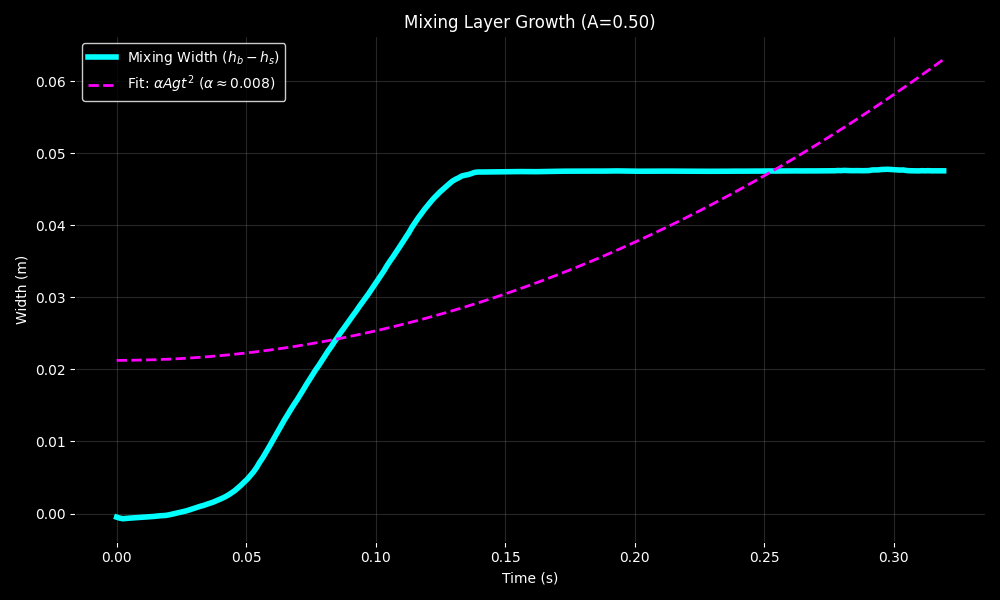
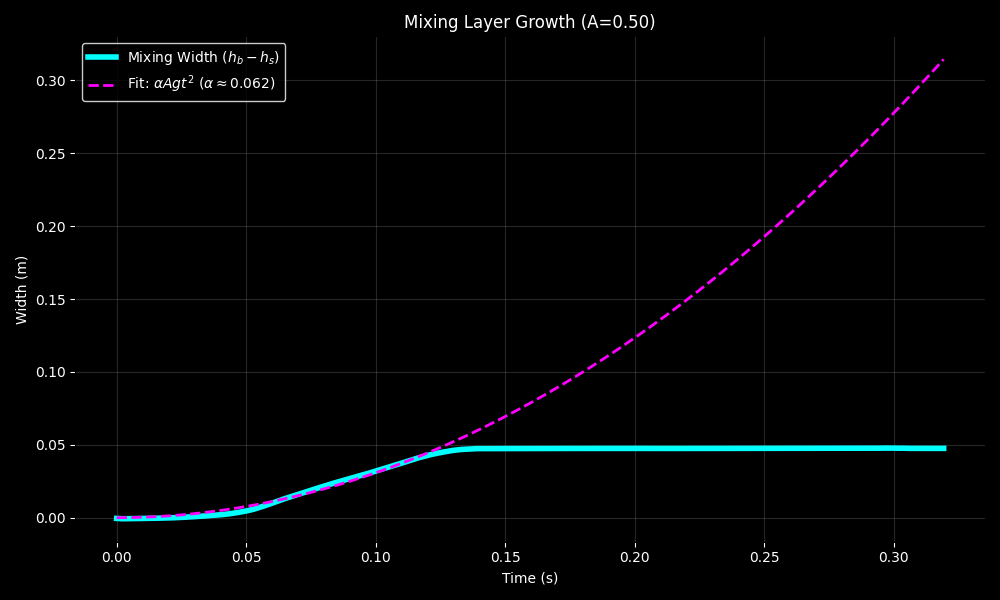
Fix: Pure quadratic fit for mixing growth (no intercept)

diff --git a/src/analyze_mixing.py b/src/analyze_mixing.py
@@ -71,22 +71,25 @@ def main():
     widths = np.array(widths)
     
     # 2. Fit Curve (W ~ C * t^2)
-    # Filter data to only include growth phase (before hitting boundaries at 0.05m)
-    threshold = 0.048
-    growth_mask = widths < threshold
+    # Theoretically W = alpha * A * g * t^2. No intercept.
+    # We fit only the active growth phase: between initial jitter and boundary interaction.
+    mask = (widths > 0.005) & (widths < 0.045)
     
-    fit_times = times[growth_mask]
-    fit_widths = widths[growth_mask]
+    fit_times = times[mask]
+    fit_widths = widths[mask]
     
     if len(fit_times) > 1:
-        t_sq_fit = fit_times**2
-        slope, intercept = np.polyfit(t_sq_fit, fit_widths, 1)
+        # We want to solve: fit_widths = slope * (fit_times^2)
+        # Using linalg.lstsq for a pure y = mx fit (intercept = 0)
+        X = (fit_times**2)[:, np.newaxis]
+        slope, _, _, _ = np.linalg.lstsq(X, fit_widths, rcond=None)
+        slope = slope[0]
         
         alpha_fit = slope / (Atwood * g)
-        print(f"Fitted Alpha (Growth Phase): {alpha_fit:.4f}")
+        print(f"Fitted Alpha (Pure Growth): {alpha_fit:.4f}")
         
-        # Calculate fitted curve for all times to show the theoretical trajectory
-        fitted_curve = slope * (times**2) + intercept
+        # Calculate fitted curve for all times
+        fitted_curve = slope * (times**2)
     else:
         alpha_fit = 0
         fitted_curve = np.zeros_like(times)
